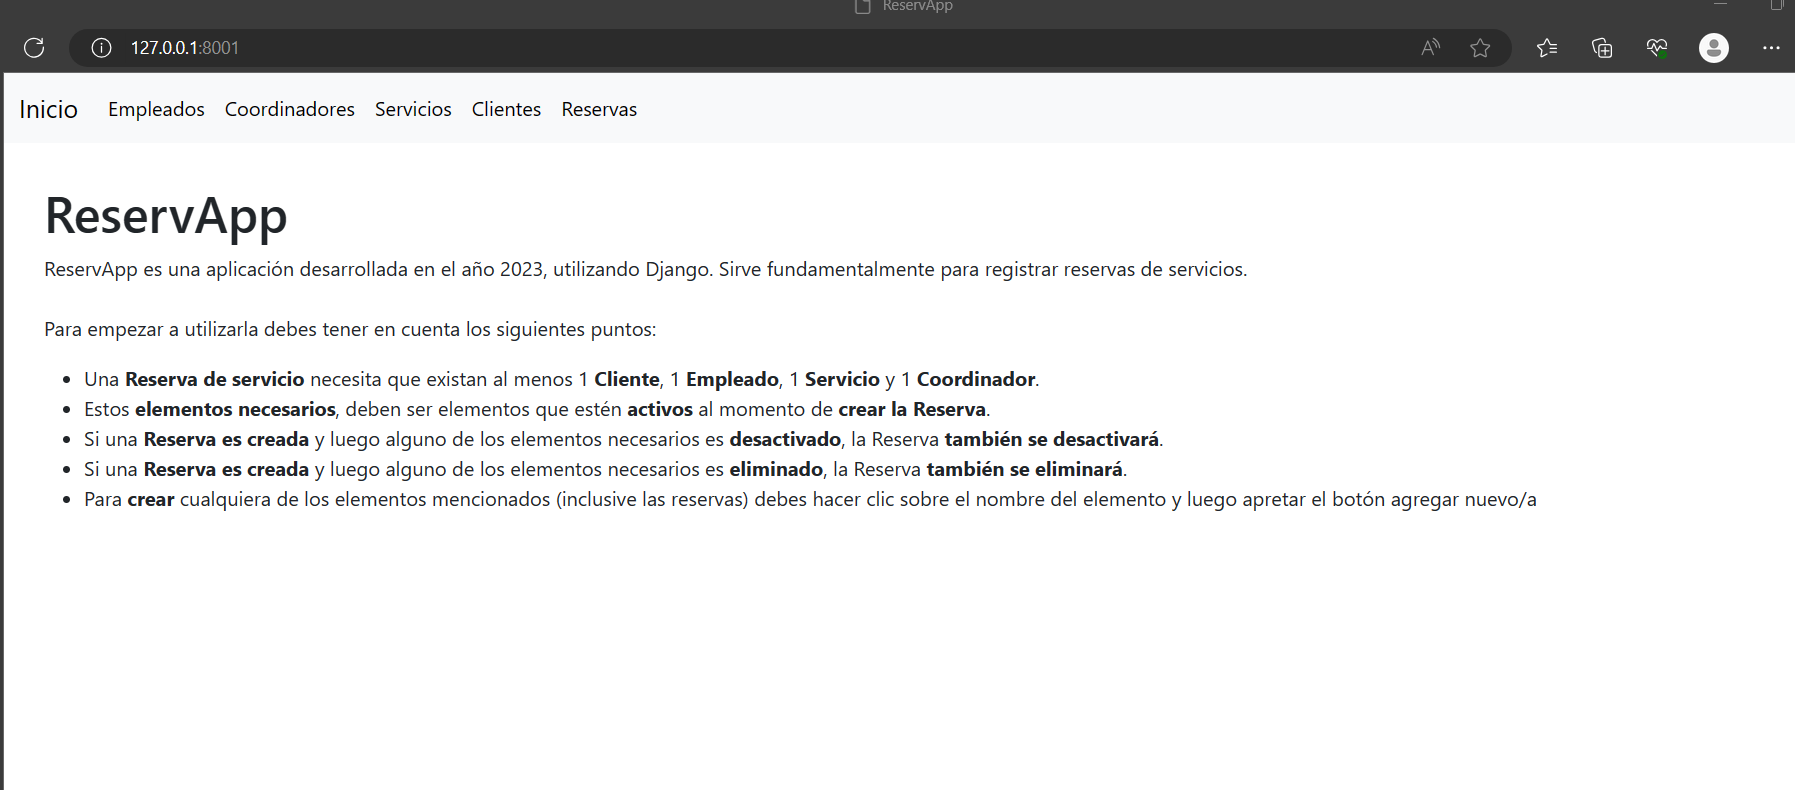
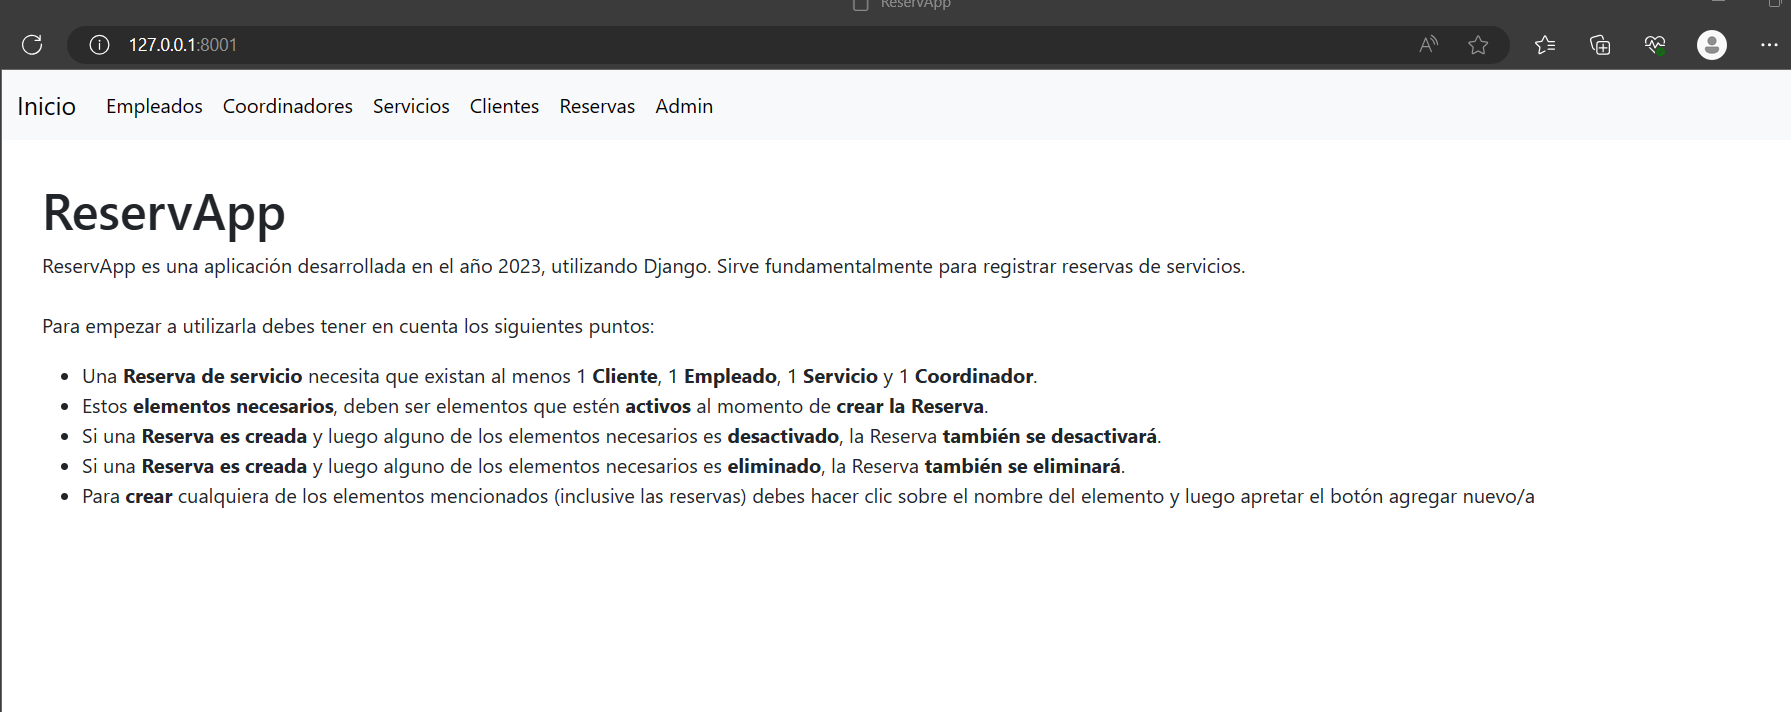
Correcciones al master, como ser el max y min en price, en file_number y en dni_number. Tambien agregamos el admin en la imagen de Coordinadores, eliminamos imagenes sin usar.

Changed region(s): [[0.0, 0.2472, 0.8599, 0.7107], [0.0, 0.0309, 1.0, 0.1854], [0.4913, 0.0, 0.5221, 0.0309]]

diff --git a/reservas/forms.py b/reservas/forms.py
@@ -26,6 +26,7 @@ class EmployeeForm(ModelForm):
                 'class': 'form-control',
                 "type" : "number",
                 'min': '1',
+                'max': '2147483647',
             }),
 
         }
@@ -55,6 +56,7 @@ class CoordinatorForm(ModelForm):
                 'class': 'form-control',
                 'type': 'number',
                 'min': '1',
+                'max': '2147483647',
             }),
         }
 
@@ -102,7 +104,8 @@ class ServiceForm(ModelForm):
             'price': forms.TextInput(attrs={
                 'class': 'form-control',
                 'type': 'number',
-                'min': 1
+                'min': '1',
+                'max': '2147483647',
             })
         }
         
@@ -139,7 +142,8 @@ class ReserveServiceForm(ModelForm):
             'price': forms.TextInput(attrs={
                 'class': 'form-control',
                 'type': 'number',
-                'min': 1
+                'min': '1',
+                'max': '2147483647',
             })
         }
 

diff --git a/README.md b/README.md
@@ -86,8 +86,8 @@ por medio de las siguientes urls
 | coordinator/deactivate/id | Desactiva un Coordinador         |
 
 ### Imagenes de referencia  
-[](./static/Coordinadores1.png)
-[](./static/Coordinadores2.png)
+<img src=".\static\Coordinadores1.png">
+<img src=".\static\Coordinadores2.png">
 Se utiliza el mismo formulario para crear y para actualizar, las unicas diferencia son:
 * Que el formulario para actualizar contendra los datos almacenados del registro que se desea actualizar.
 * El boton para confirmar dicha actualizacion posee la leyenda actualizar  
